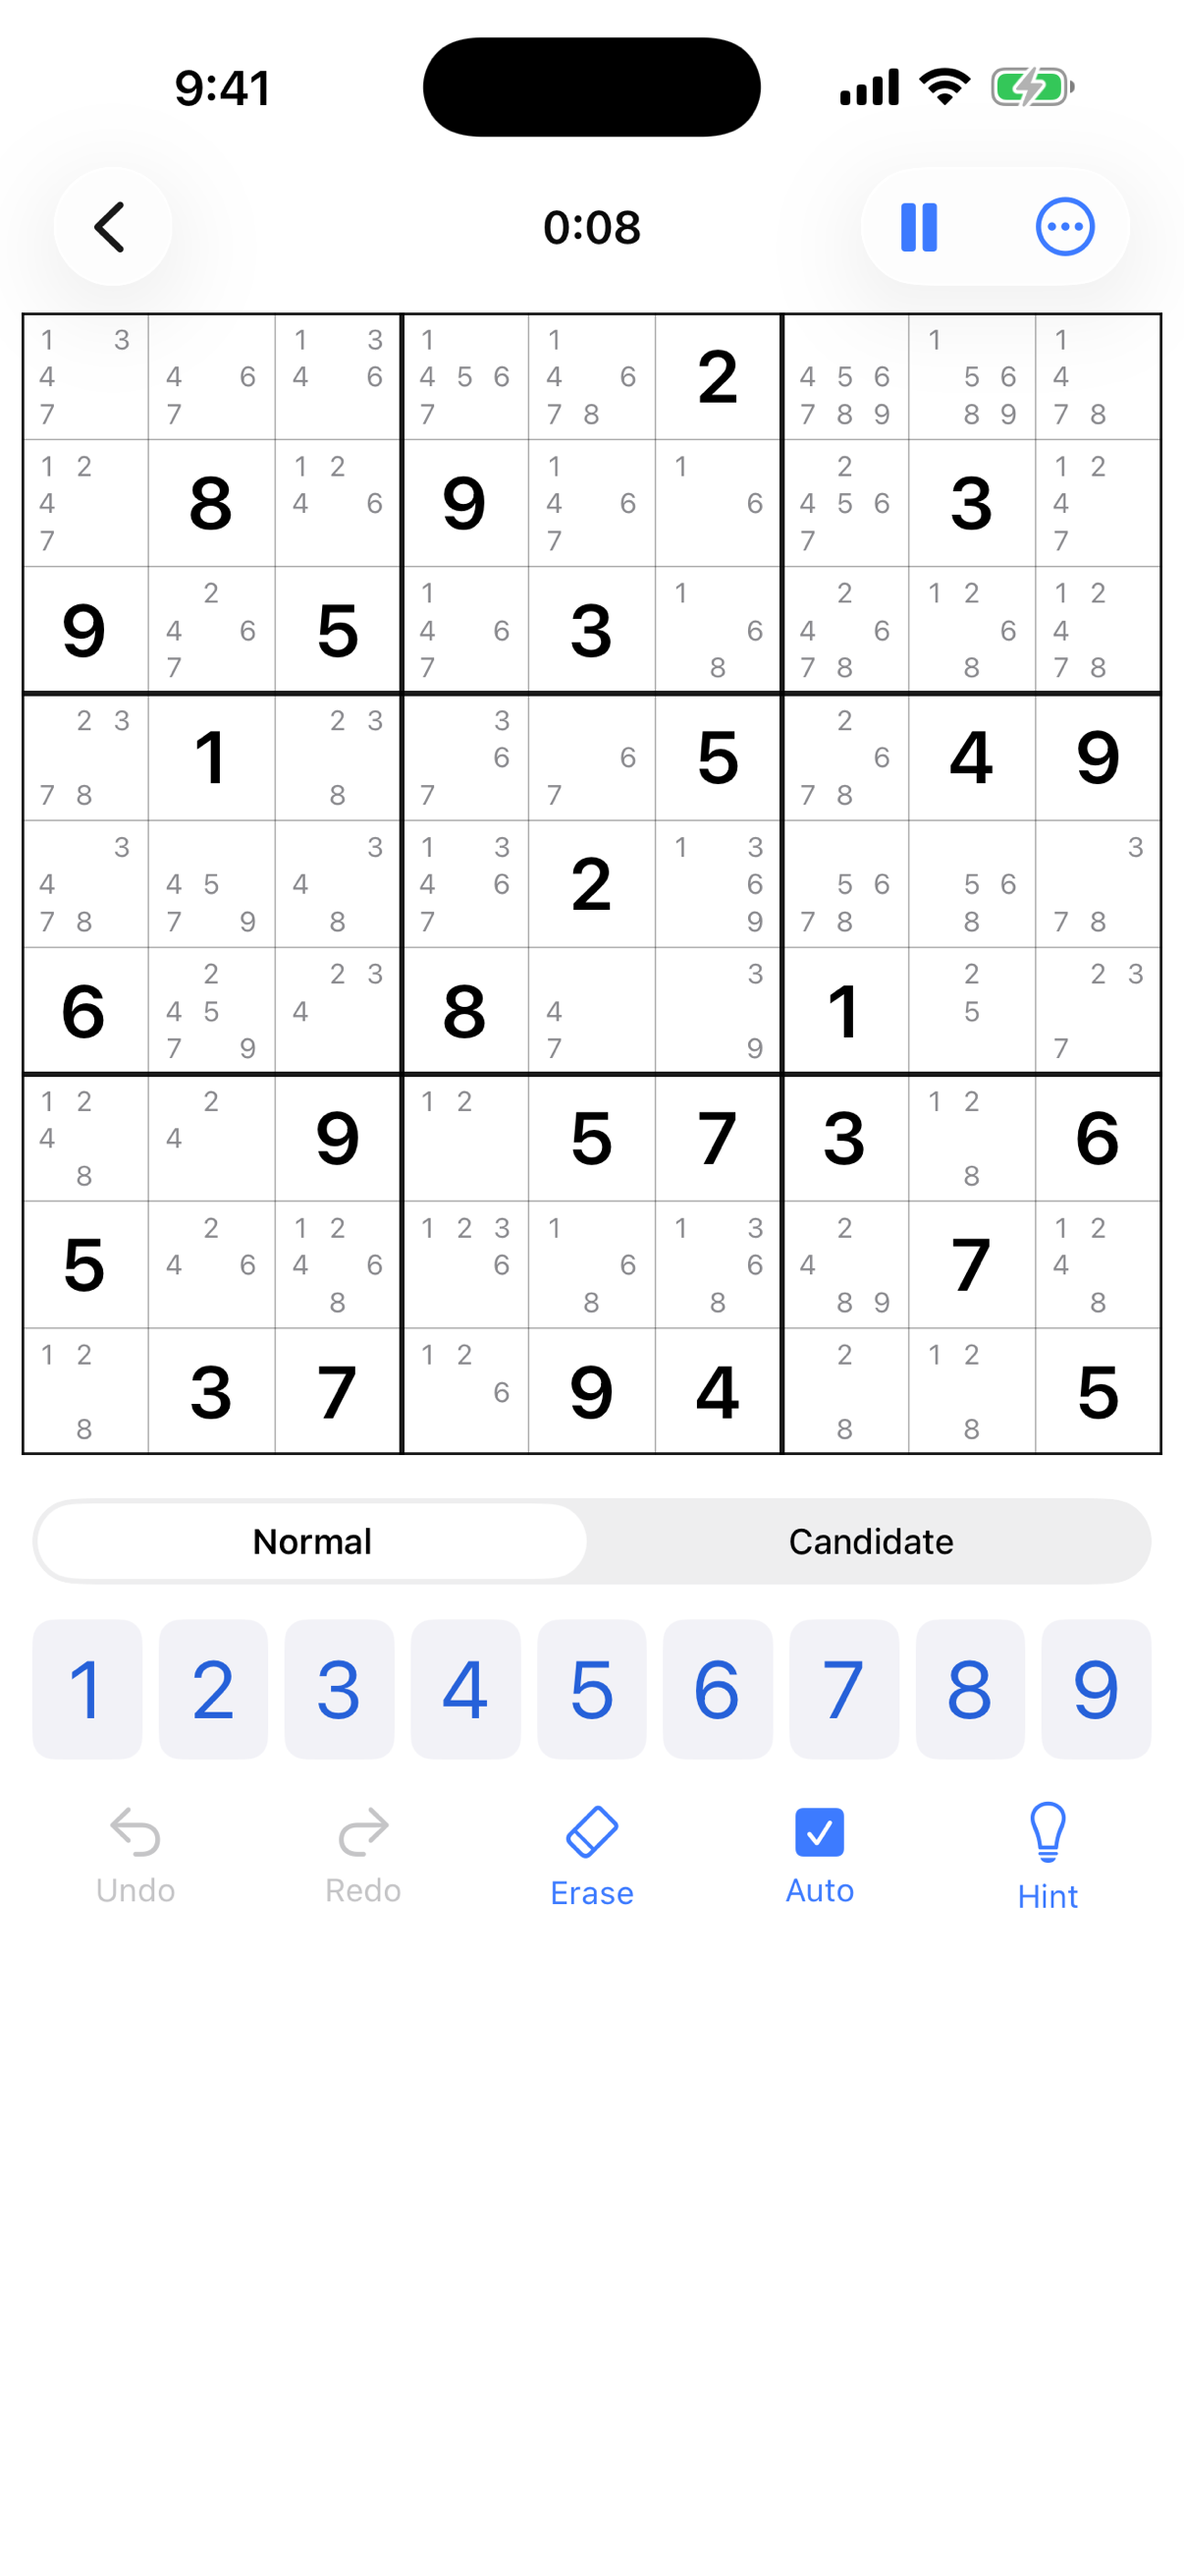
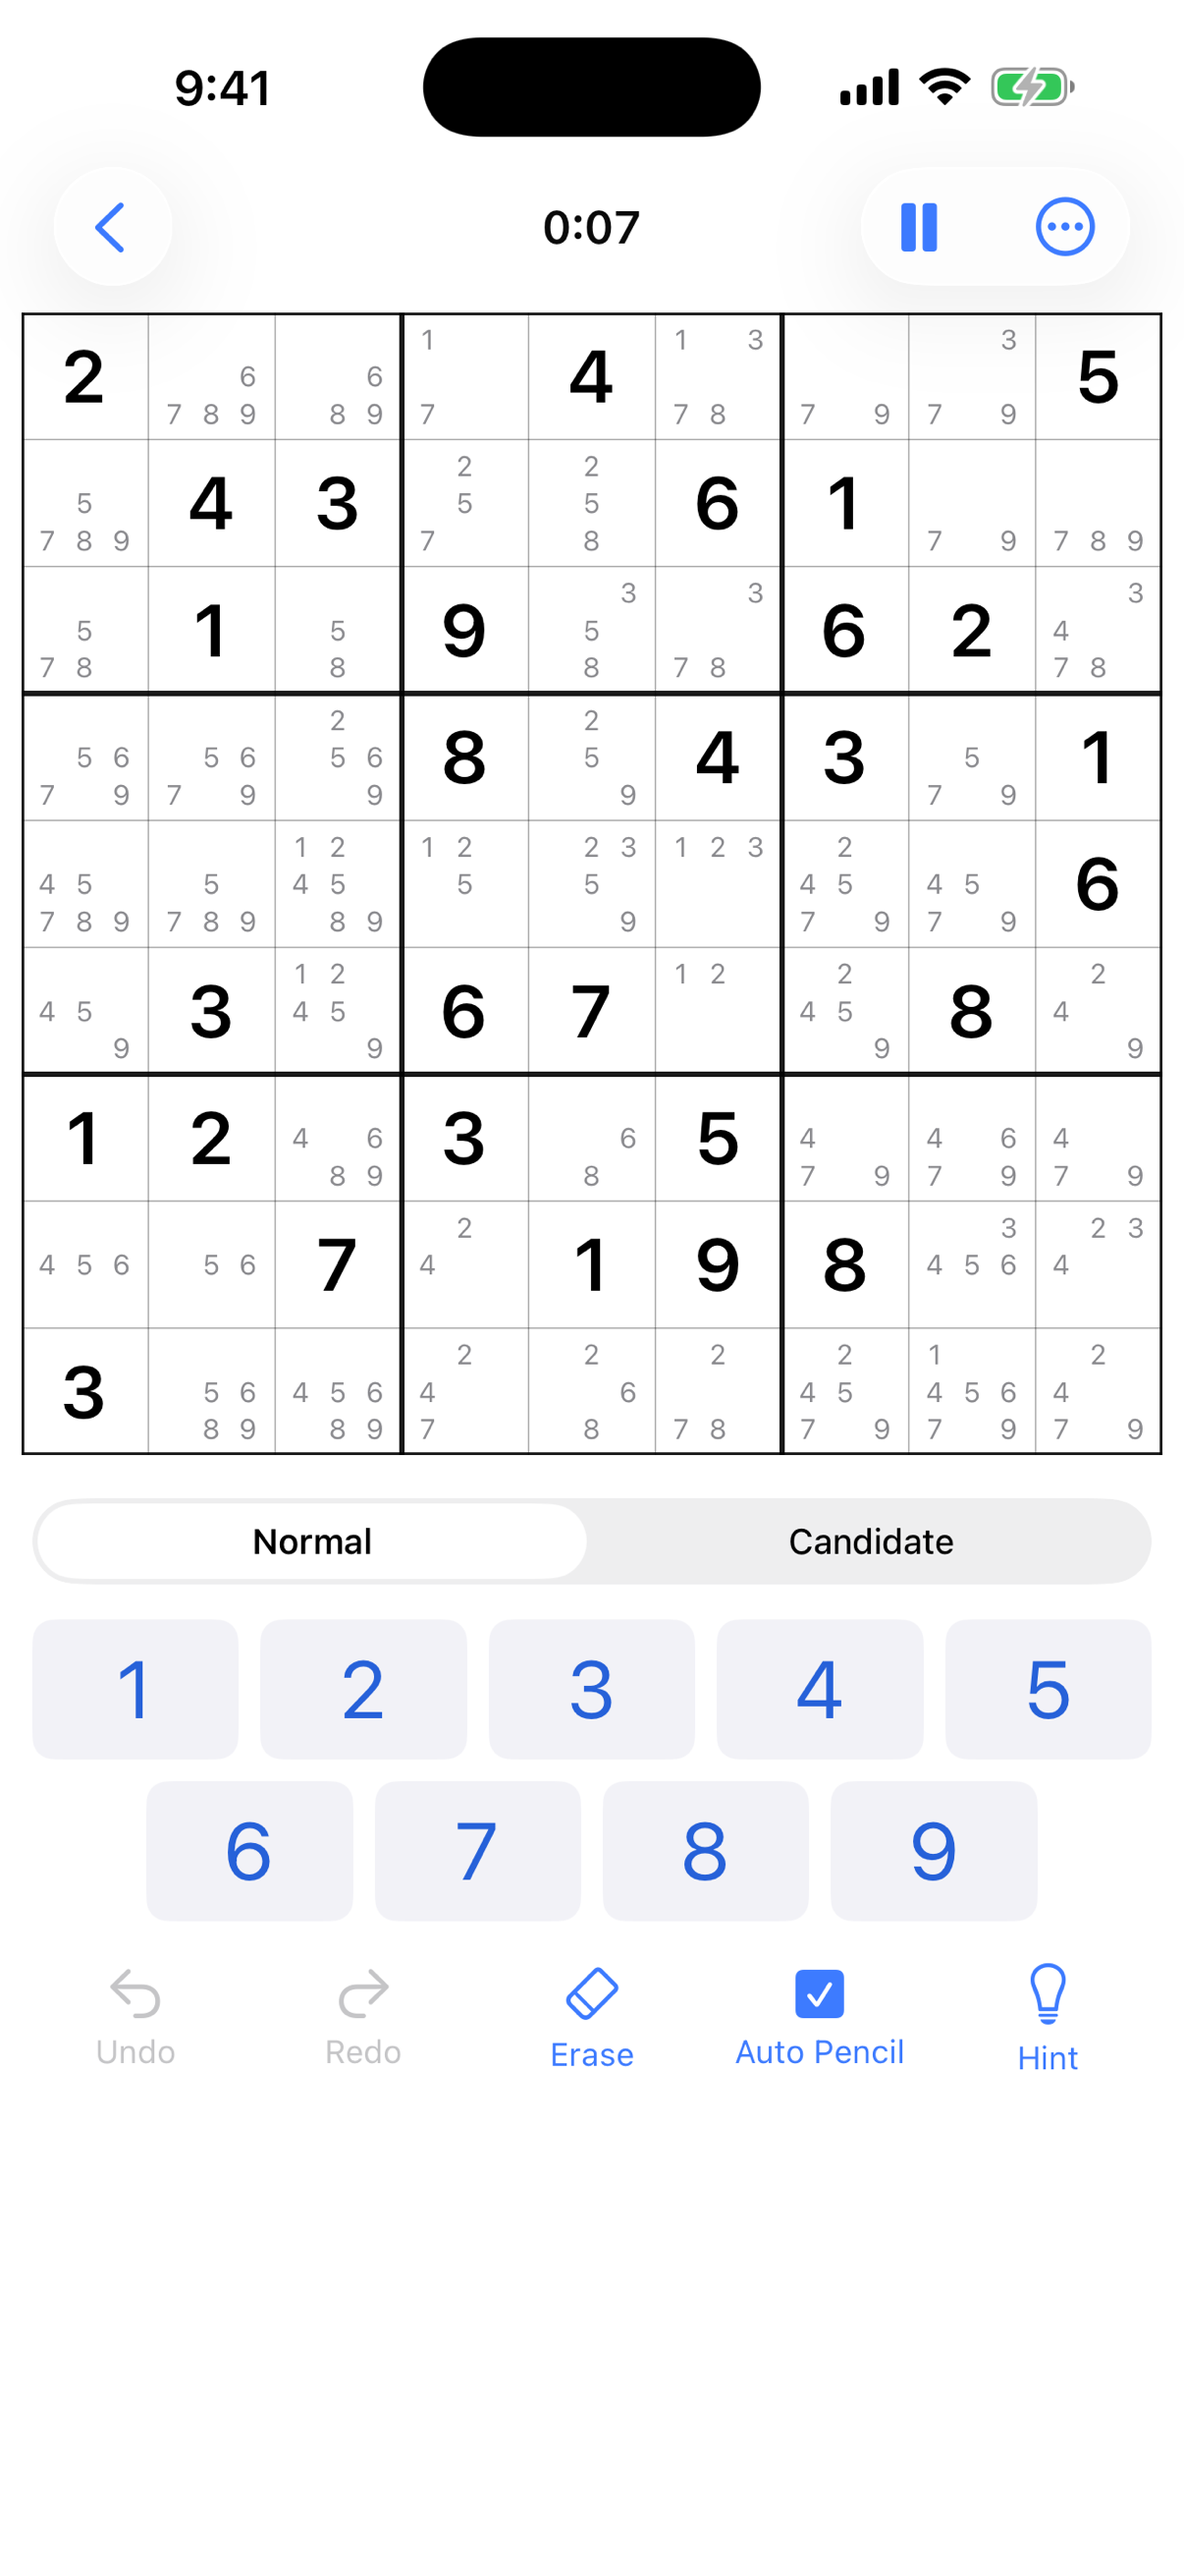
feat(app): TestFlight feedback — two-row keypad, back arrow only, Auto Pencil, killer notes clear of cage totals
- Number keys in two rows (1–5 over a centred 6–9) for bigger targets
- Game screen: back arrow is the only way home; the edge swipe no longer exits mid-game
- "Auto candidates" is now "Auto Pencil" (button, hint offer, support page, listing)
- Killer: notes in a cell with a cage total sit below the total, so 1s aren't hidden
- Screenshots 2 and 3 retaken; build 2

diff --git a/App/Views/ControlsView.swift b/App/Views/ControlsView.swift
@@ -18,23 +18,17 @@ struct ControlsView: View {
                 .pickerStyle(.segmented)
                 .accessibilityIdentifier("inputMode")
             }
-            HStack(spacing: 6) {
-                ForEach(1...9, id: \.self) { d in
-                    let done = session.placedCount(of: d) >= 9
-                    Button {
-                        session.input(d, settings: settings)
-                        UIImpactFeedbackGenerator(style: .light).impactOccurred()
-                        onChange()
-                    } label: {
-                        Text("\(d)")
-                            .font(.system(size: session.inputMode == .normal ? 30 : 22, weight: .regular))
-                            .frame(maxWidth: .infinity, minHeight: 52)
-                            .foregroundStyle(done ? Color.secondary.opacity(0.4) : Theme.accent)
-                            .background(Color(.secondarySystemBackground), in: RoundedRectangle(cornerRadius: 8))
-                    }
-                    .accessibilityIdentifier("digit-\(d)")
+            // Two rows, 1–5 over a centred 6–9, so each key is wide enough to hit easily.
+            GeometryReader { geo in
+                let spacing: CGFloat = 8
+                let key = (geo.size.width - 4 * spacing) / 5
+                VStack(spacing: spacing) {
+                    HStack(spacing: spacing) { ForEach(1...5, id: \.self) { digitKey($0, width: key) } }
+                    HStack(spacing: spacing) { ForEach(6...9, id: \.self) { digitKey($0, width: key) } }
                 }
+                .frame(maxWidth: .infinity)
             }
+            .frame(height: 2 * 52 + 8)
             HStack {
                 tool("Undo", "arrow.uturn.backward", id: "undo", enabled: session.canUndo) { session.undo() }
                 tool("Redo", "arrow.uturn.forward", id: "redo", enabled: session.canRedo) { session.redo() }
@@ -45,14 +39,30 @@ struct ControlsView: View {
                         showCageHelper = true
                     }
                 }
-                tool("Auto", session.autoCandidateMode ? "checkmark.square.fill" : "square", id: "autoCandidates") {
+                tool("Auto Pencil", session.autoCandidateMode ? "checkmark.square.fill" : "square", id: "autoCandidates") {
                     session.setAutoCandidates(!session.autoCandidateMode)
                 }
-                .accessibilityLabel("Auto candidates")
+                .accessibilityLabel("Auto Pencil")
                 .accessibilityValue(session.autoCandidateMode ? "on" : "off")
                 tool("Hint", "lightbulb", id: "hint", notify: false) { onHint() }
             }
         }
+    }
+
+    private func digitKey(_ d: Int, width: CGFloat) -> some View {
+        let done = session.placedCount(of: d) >= 9
+        return Button {
+            session.input(d, settings: settings)
+            UIImpactFeedbackGenerator(style: .light).impactOccurred()
+            onChange()
+        } label: {
+            Text("\(d)")
+                .font(.system(size: session.inputMode == .normal ? 30 : 22, weight: .regular))
+                .frame(width: width, height: 52)
+                .foregroundStyle(done ? Color.secondary.opacity(0.4) : Theme.accent)
+                .background(Color(.secondarySystemBackground), in: RoundedRectangle(cornerRadius: 8))
+        }
+        .accessibilityIdentifier("digit-\(d)")
     }
 
     private func tool(_ title: String, _ icon: String, id: String, enabled: Bool = true, notify: Bool = true,

diff --git a/App/Views/BoardView.swift b/App/Views/BoardView.swift
@@ -78,6 +78,8 @@ struct BoardView: View {
 
         // Digits and notes (auto candidates or the player's own).
         let shown = session.displayedNotes()
+        // Cells carrying a cage total: their notes sit below the total instead of under it.
+        let labelled = Set(session.puzzle.cages.map { $0.cells.min()! })
         for c in 0..<81 {
             let r = rect(c, unit)
             let v = session.entries[c]
@@ -94,12 +96,16 @@ struct BoardView: View {
                     let col = CGFloat((d - 1) % 3), row = CGFloat((d - 1) / 3)
                     let inset = session.puzzle.cages.isEmpty ? unit * 0.06 : unit * 0.14
                     let w = (unit - 2 * inset) / 3
-                    let p = CGPoint(x: r.minX + inset + w * (col + 0.5), y: r.minY + inset + w * (row + 0.5))
+                    // Rows run from just below the cage total down to the usual bottom inset.
+                    let squeezed = labelled.contains(c)
+                    let top = squeezed ? unit * 0.30 : inset
+                    let h = (unit - inset * (squeezed ? 0.9 : 1) - top) / 3
+                    let p = CGPoint(x: r.minX + inset + w * (col + 0.5), y: r.minY + top + h * (row + 0.5))
                     let cd = CellDigit(cell: c, digit: d)
                     let marked = marks.contains(cd)
                     let highlighted = pattern.contains(cd) || secondary.contains(cd)
                     let color = marked ? Theme.wrong : (secondary.contains(cd) ? Color.orange : (pattern.contains(cd) ? Color.green : Theme.note))
-                    ctx.draw(Text("\(d)").font(.system(size: unit * 0.22, weight: marked || highlighted ? .bold : .regular))
+                    ctx.draw(Text("\(d)").font(.system(size: unit * (squeezed ? 0.17 : 0.22), weight: marked || highlighted ? .bold : .regular))
                         .foregroundStyle(color), at: p)
                     if marked {
                         var strike = Path()

diff --git a/App/Views/GameView.swift b/App/Views/GameView.swift
@@ -126,7 +126,13 @@ struct GameView: View {
         }
         .navigationTitle("\(key.mode.rawValue.capitalized) · \(key.tier.name.capitalized)")
         .navigationBarTitleDisplayMode(.inline)
+        // Only the back arrow leaves the game: an edge swipe is too easy to trigger from the left column.
+        .navigationBarBackButtonHidden(true)
         .toolbar {
+            ToolbarItem(placement: .topBarLeading) {
+                Button("Back", systemImage: "chevron.left") { dismiss() }
+                    .accessibilityIdentifier("backButton")
+            }
             ToolbarItem(placement: .principal) {
                 Text(Self.clock(s.wrappedValue.elapsed)).monospacedDigit().font(.headline).accessibilityIdentifier("clock")
             }

diff --git a/SudokuCore/Tests/SudokuGameTests/GraduatedMistakeTests.swift b/SudokuCore/Tests/SudokuGameTests/GraduatedMistakeTests.swift
@@ -39,7 +39,7 @@ import SudokuGame
 
     @Test func incompleteCandidatesOfferAutoMode() {
         let d = HintDiagnosis.incomplete(.row(3))
-        #expect(HintText.message(d, level: 1) == "This hint needs candidates in row 4. Fill them in, or turn on Auto candidates.")
+        #expect(HintText.message(d, level: 1) == "This hint needs candidates in row 4. Fill them in, or turn on Auto Pencil.")
         #expect(HintText.offersAutoCandidates(d))
         #expect(!HintText.offersAutoCandidates(.solved))
     }

diff --git a/App/Views/HintBar.swift b/App/Views/HintBar.swift
@@ -27,7 +27,7 @@ struct HintBar: View {
                 Button("More specific", action: onMore).buttonStyle(.bordered).accessibilityIdentifier("hintMore")
             }
             if HintText.offersAutoCandidates(diagnosis) {
-                Button("Turn on Auto candidates", action: onAutoCandidates)
+                Button("Turn on Auto Pencil", action: onAutoCandidates)
                     .buttonStyle(.borderedProminent)
                     .accessibilityIdentifier("hintAutoCandidates")
             }

diff --git a/SudokuCore/Sources/SudokuGame/HintText.swift b/SudokuCore/Sources/SudokuGame/HintText.swift
@@ -64,7 +64,7 @@ public enum HintText {
             if level >= 3 { text += " It's \(cell(c))." }
             return text
         case .incomplete(let r):
-            return "This hint needs candidates in \(region(r)). Fill them in, or turn on Auto candidates."
+            return "This hint needs candidates in \(region(r)). Fill them in, or turn on Auto Pencil."
         case .step(let s):
             return nudge(s, level: level)
         case .beyond:

diff --git a/docs/appstore/support.md b/docs/appstore/support.md
@@ -9,6 +9,6 @@ Found a bug, a puzzle that seems wrong, or a hint that didn't make sense?
 
 **Is every puzzle solvable without guessing?** Yes. Every puzzle has exactly one solution and is graded by the hardest technique it needs.
 
-**Why does a hint ask me to turn on Auto candidates?** Most hints past singles remove candidates, which only makes sense when all of them are shown.
+**Why does a hint ask me to turn on Auto Pencil?** Most hints past singles remove candidates, which only makes sense when all of them are shown.
 
 **Do hints and reveals affect my stats?** A game counts as a clean solve only with no hints, checks, reveals or assists.

diff --git a/docs/appstore/listing.md b/docs/appstore/listing.md
@@ -23,7 +23,7 @@ HINTS THAT TEACH
 
 PLAY YOUR WAY
 • Normal and candidate entry, unlimited undo and redo
-• Auto candidates that remember the ones you cross out
+• Auto Pencil marks that remember the ones you cross out
 • Killer cage helper and remaining sums (optional)
 • Check and reveal when you need them — tracked in your stats, never forced on you
 
